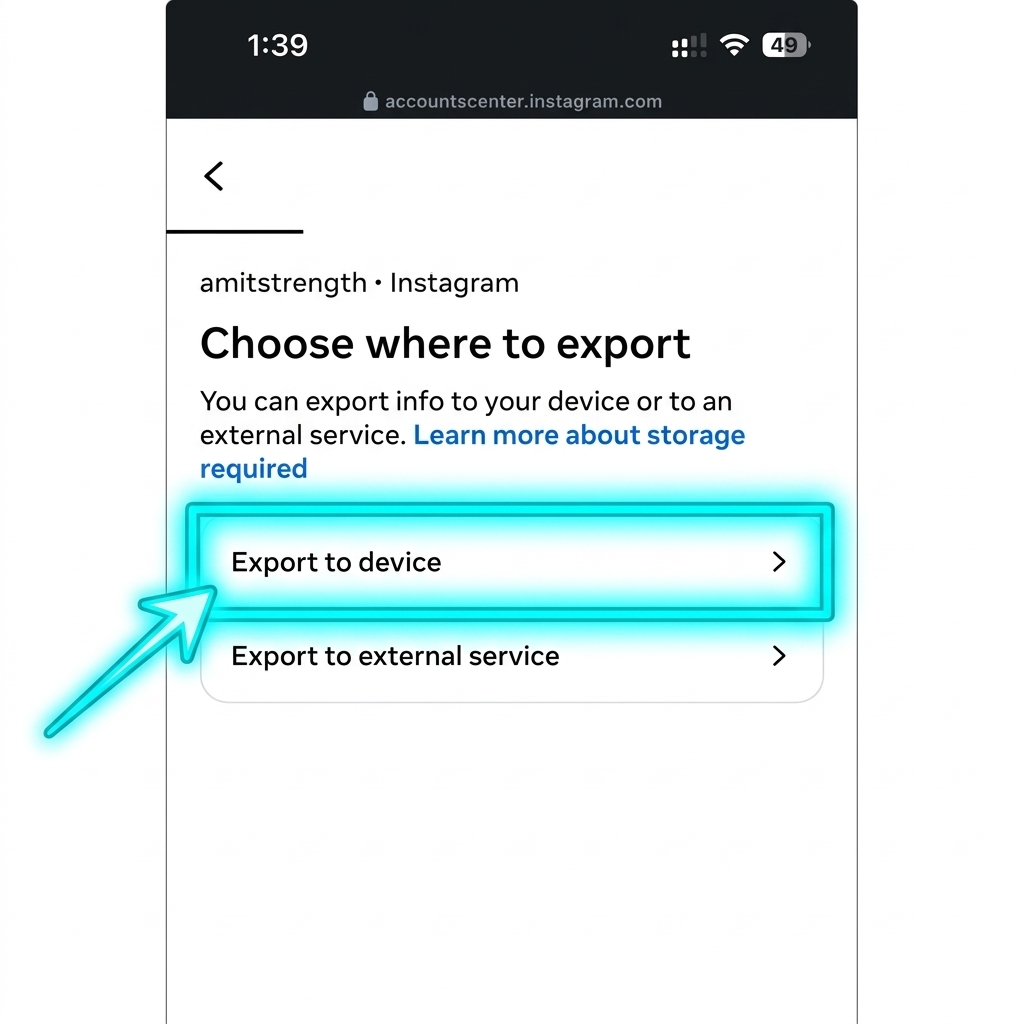
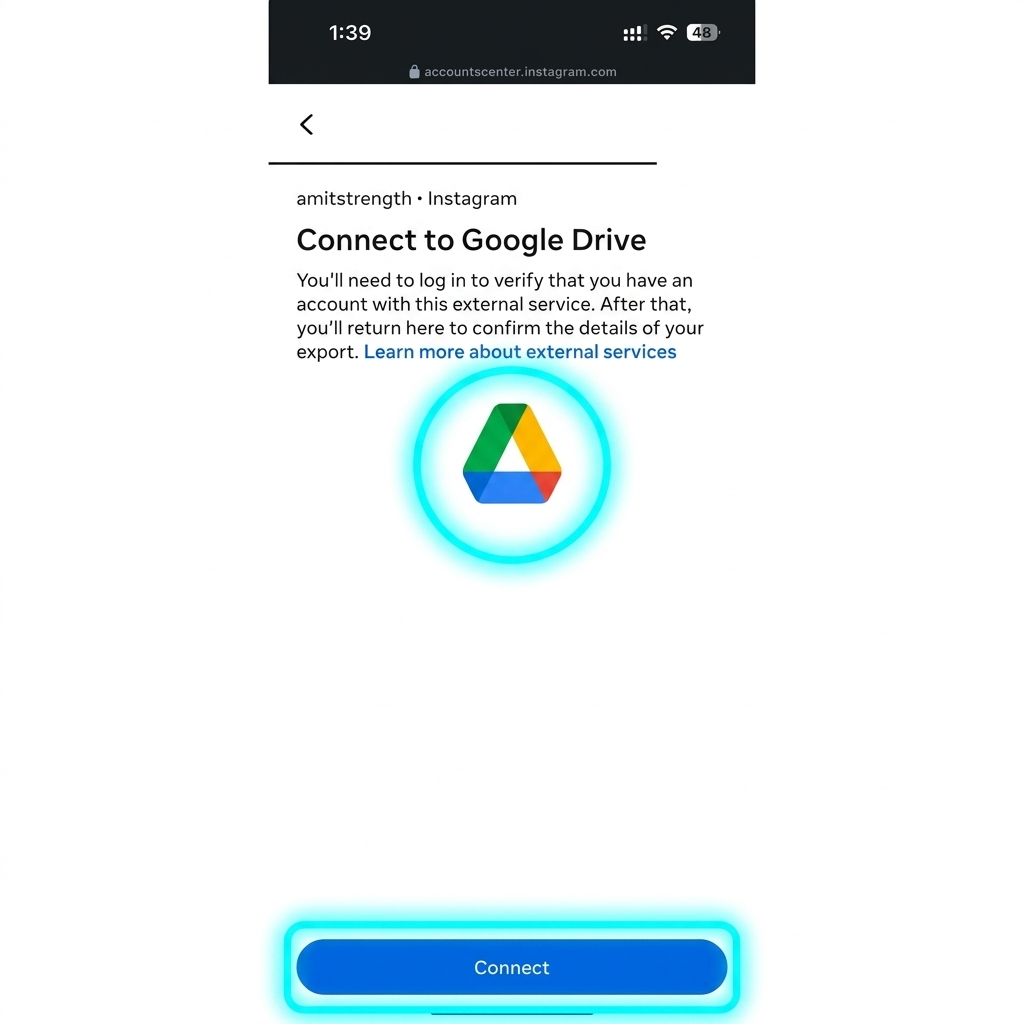
update guide: Google Drive external service, Monthly for 3 years, and All Time critical warning

diff --git a/src/pages/InstaDiffApp.jsx b/src/pages/InstaDiffApp.jsx
@@ -67,14 +67,14 @@ const GUIDE_STEPS = [
   },
   {
     step: 6,
-    title: "6. Export to Device",
-    desc: "Select 'Export to device' (Download to device).",
+    title: "6. Export to External Service (Google Drive)",
+    desc: "Select 'Export to external service' and connect your Google Drive account.",
     image: `${import.meta.env.BASE_URL}guide/step6.png`,
   },
   {
     step: 7,
-    title: "7. Select Frequency",
-    desc: "Select 'Once' for a single export package.",
+    title: "7. Select Frequency & Duration",
+    desc: "Select 'Monthly' (or Weekly) and set duration to '3 years'. This delivers recurring data automatically so you don't have to set it up repeatedly!",
     image: `${import.meta.env.BASE_URL}guide/step7.png`,
   },
   {
@@ -85,9 +85,10 @@ const GUIDE_STEPS = [
   },
   {
     step: 9,
-    title: "9. Set Date Range to All Time",
-    desc: "Tap Date range and select 'All time' so no followers are missing.",
+    title: "9. CRITICAL: Set Date Range to All Time!",
+    desc: "⚠ MUST select 'All time'! Without 'All time', Instagram only exports accounts that followed within the selected date window, missing your existing followers and following.",
     image: `${import.meta.env.BASE_URL}guide/step9.png`,
+    warning: true,
   },
   {
     step: 10,
